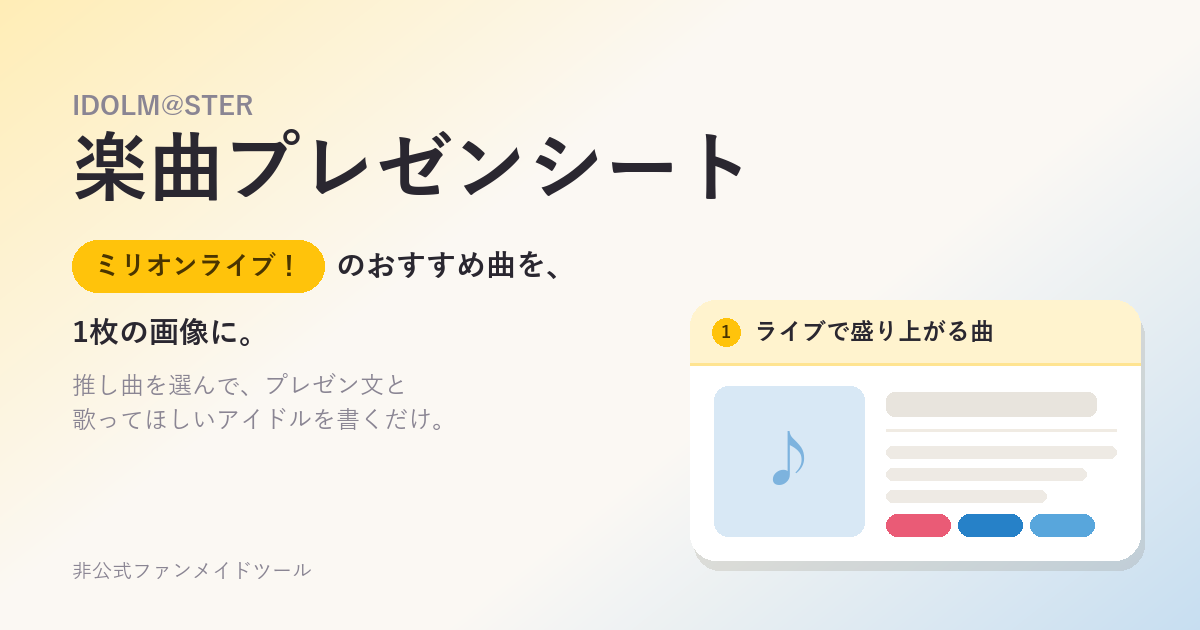
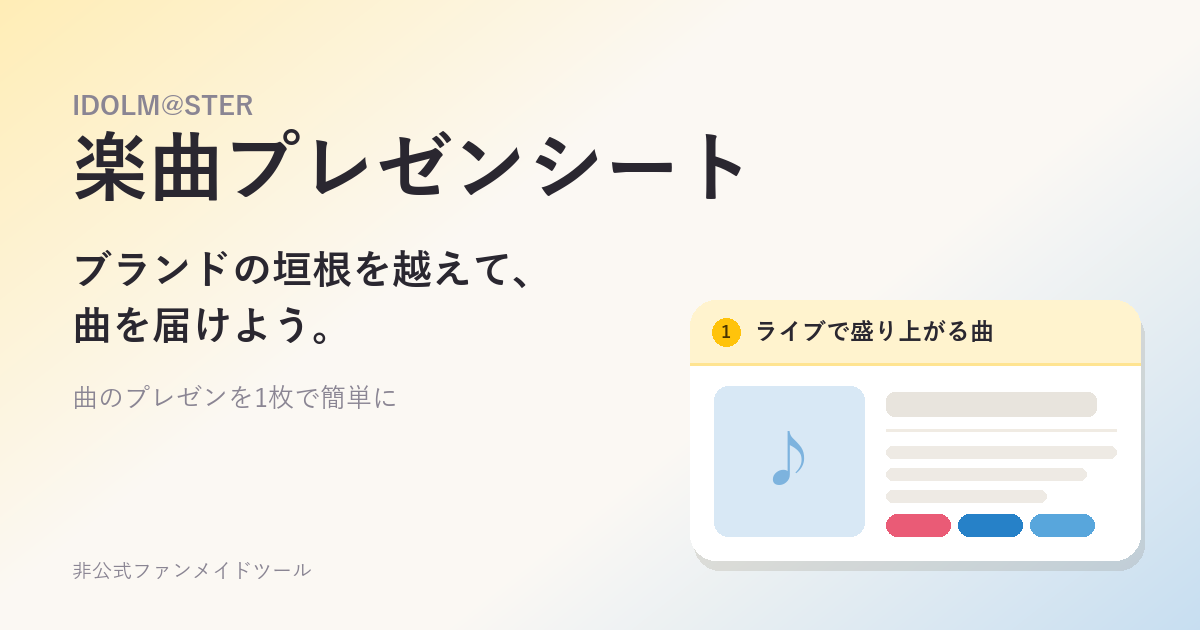
[fix]OGP画像の文言を変更（ブランドの垣根を越えて、曲を届けよう。）

Changed region(s): [[0.0617, 0.3619, 0.4625, 0.5429], [0.0617, 0.573, 0.37, 0.6937]]

diff --git a/promote/index.html b/promote/index.html
@@ -25,14 +25,14 @@
 <meta property="og:site_name" content="アイマス楽曲プレゼンシート">
 <meta property="og:locale" content="ja_JP">
 <!-- SNS のクローラーは相対パスを解決しないので画像は絶対URL。画像を作り直したら ?v= を変える -->
-<meta property="og:image" content="https://imas-presen-songs.283production-staff.workers.dev/assets/ogp.png?v=3">
+<meta property="og:image" content="https://imas-presen-songs.283production-staff.workers.dev/assets/ogp.png?v=4">
 <meta property="og:image:width" content="1200">
 <meta property="og:image:height" content="630">
-<meta property="og:image:alt" content="アイマス楽曲プレゼンシート：ブランドのおすすめ曲を1枚の画像に">
+<meta property="og:image:alt" content="アイマス楽曲プレゼンシート：ブランドの垣根を越えて、曲を届けよう。曲のプレゼンを1枚で簡単に">
 <meta name="twitter:card" content="summary_large_image">
 <meta name="twitter:title" content="アイマス楽曲プレゼンシート">
 <meta name="twitter:description" content="ブランドの垣根を越えて、推し曲をプレゼンしよう。">
-<meta name="twitter:image" content="https://imas-presen-songs.283production-staff.workers.dev/assets/ogp.png?v=3">
+<meta name="twitter:image" content="https://imas-presen-songs.283production-staff.workers.dev/assets/ogp.png?v=4">
 <meta name="theme-color" content="#fff8ec">
 <link rel="preconnect" href="https://fonts.googleapis.com">
 <link rel="preconnect" href="https://fonts.gstatic.com" crossorigin>

diff --git a/promote/scripts/make_ogp.py b/promote/scripts/make_ogp.py
@@ -82,12 +82,11 @@ def main() -> None:
     x0 = 72
     d.text((x0, 92), "IDOLM@STER", font=font("bold", 26), fill=MUTED)
     d.text((x0, 128), "楽曲プレゼンシート", font=font("bold", 76), fill=INK)
-    fp = font("bold", 26)
-    x = pill(d, x0, 240, a["name"], ca, ia, fp)
-    d.text((x + 12, 266), "のおすすめ曲を、", font=font("bold", 30), fill=INK, anchor="lm")
-    d.text((x0, 316), "1枚の画像に。", font=font("bold", 30), fill=INK)
-    d.text((x0, 372), "推し曲を選んで、プレゼン文と", font=font("regular", 24), fill=MUTED)
-    d.text((x0, 406), "歌ってほしいアイドルを書くだけ。", font=font("regular", 24), fill=MUTED)
+    # キャッチコピー（右のカード見本と重ならないよう2行に分ける）
+    fc = font("bold", 40)
+    d.text((x0, 248), "ブランドの垣根を越えて、", font=fc, fill=INK)
+    d.text((x0, 304), "曲を届けよう。", font=fc, fill=INK)
+    d.text((x0, 384), "曲のプレゼンを1枚で簡単に", font=font("regular", 26), fill=MUTED)
 
     # --- 右側：カードの見本（ジャケットはプレースホルダー）
     cx, cy, cw, ch = 690, 300, 450, 260
